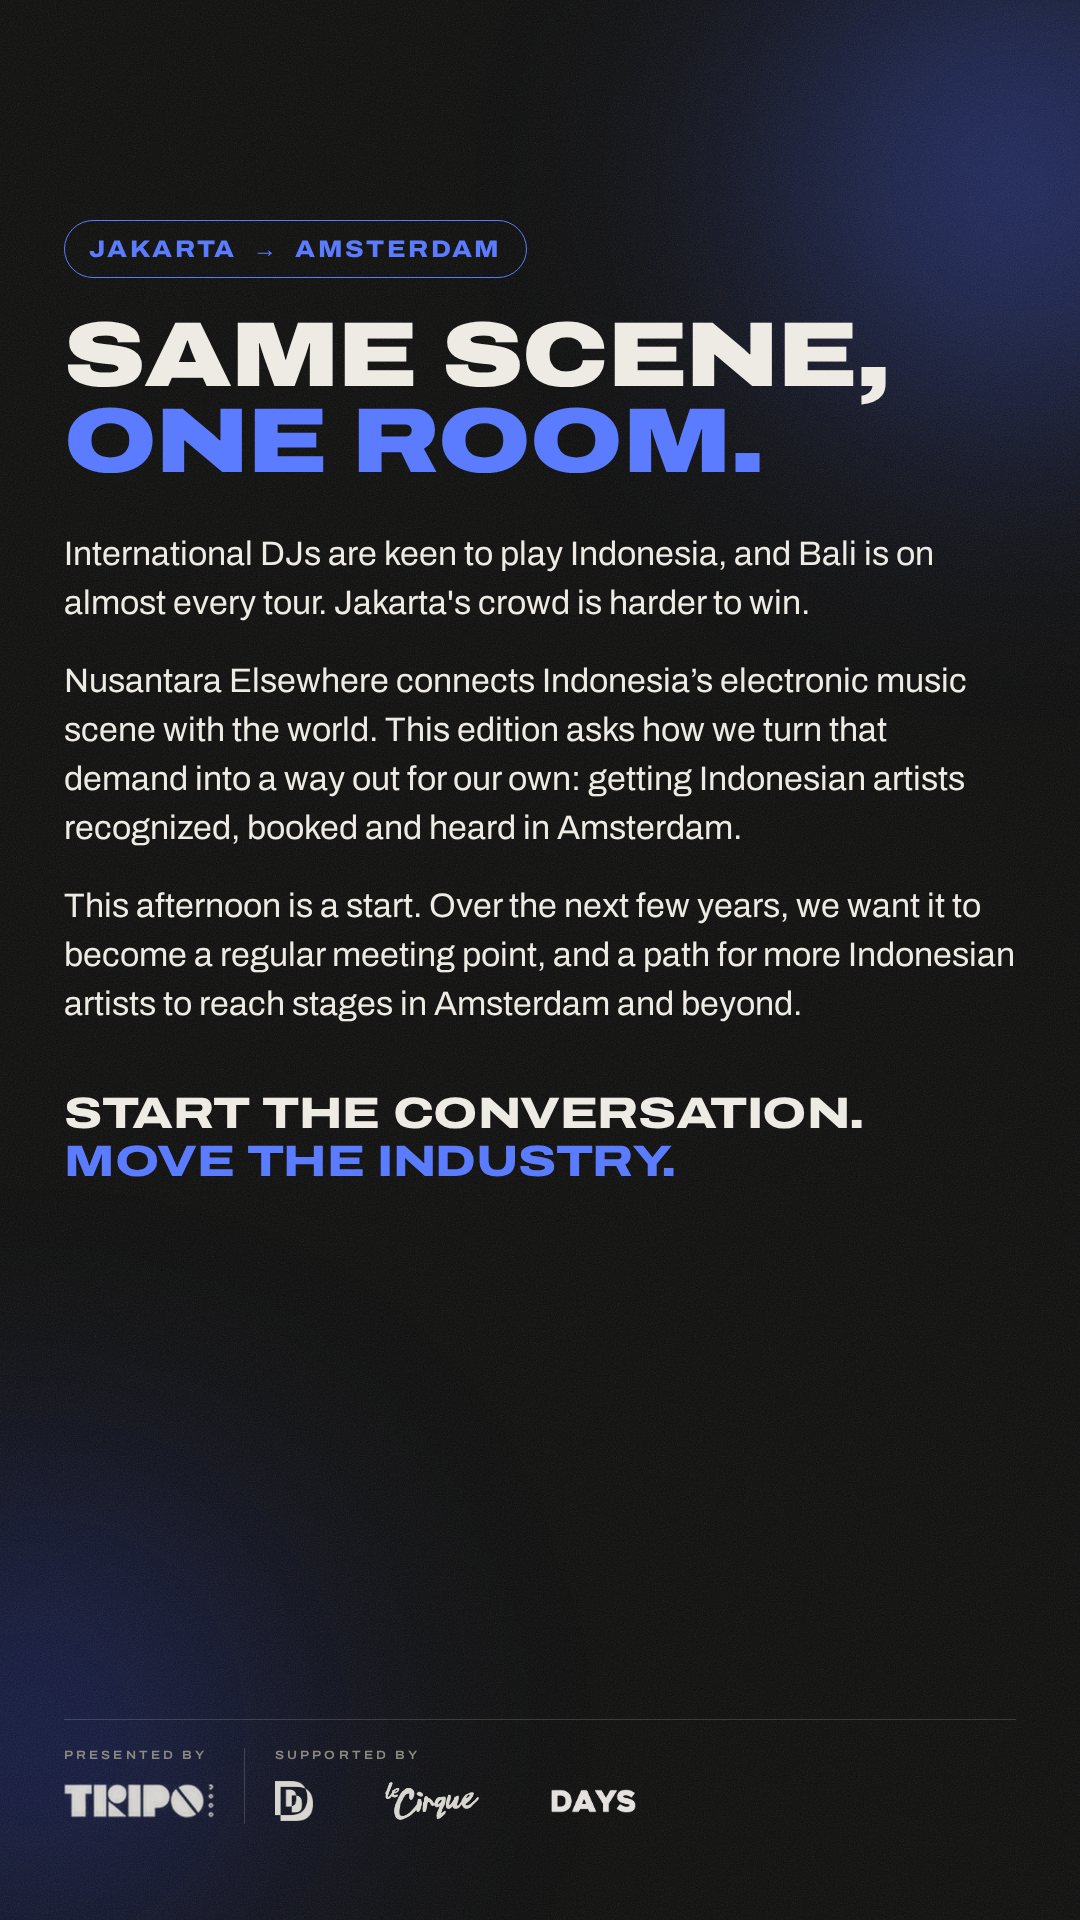
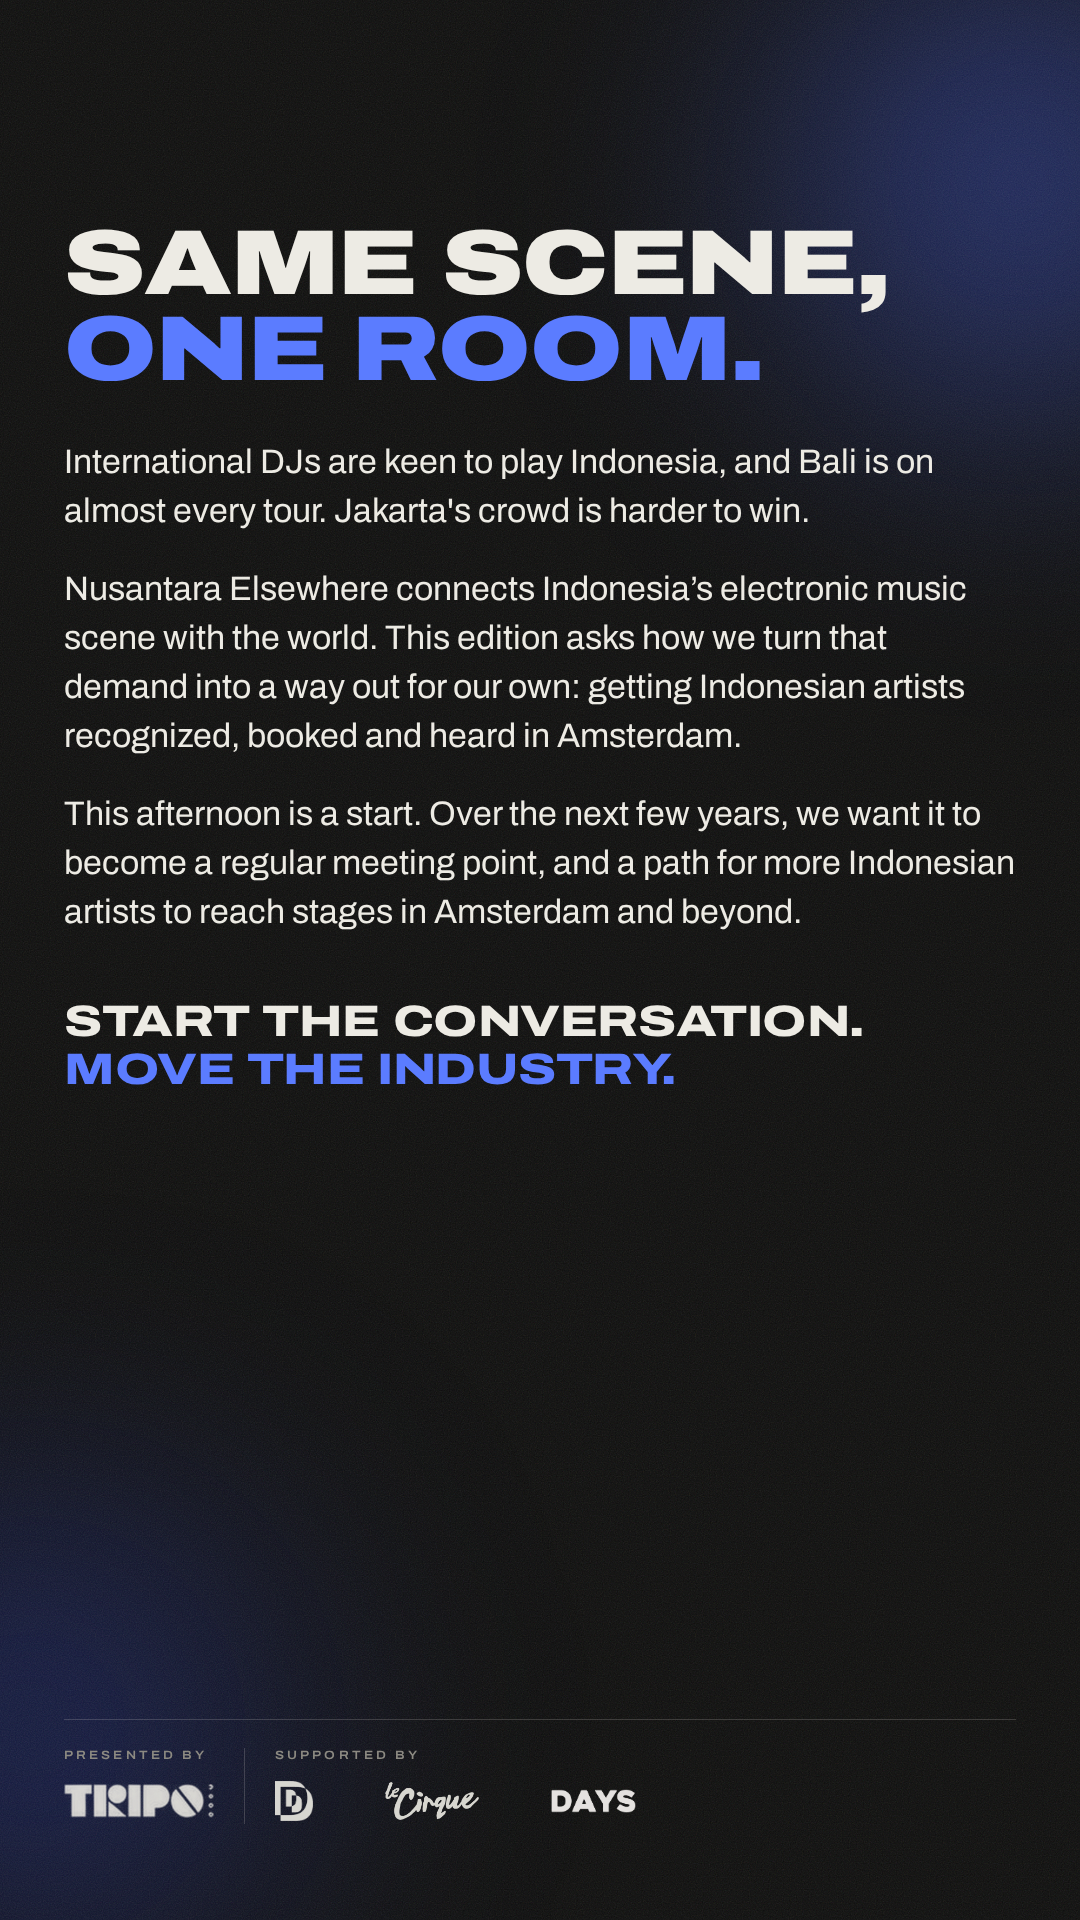
Why page: remove Jakarta → Amsterdam line
Claude-Session: https://claude.ai/code/session_01Sc5gF2HRFqjLpMQDrx7aqZ

Changed region(s): [[0.0611, 0.0938, 0.9472, 0.625]]

diff --git a/events/ade-community-talks-2026/rebrand/03-scene-amsterdam-nusantara.html b/events/ade-community-talks-2026/rebrand/03-scene-amsterdam-nusantara.html
@@ -13,8 +13,7 @@
 <div class="glow g1"></div><div class="glow g2"></div><div class="grain"></div>
 <div class="page">
 
-  <div class="bridge" style="margin-top:0">Jakarta <i>→</i> Amsterdam</div>
-  <div class="display" style="font-size:92px;line-height:.94;margin-top:34px;white-space:nowrap">Same scene,<br><em>one room.</em></div>
+  <div class="display" style="font-size:92px;line-height:.94;margin-top:0;white-space:nowrap">Same scene,<br><em>one room.</em></div>
 
   <div class="body" style="margin-top:44px">International DJs are keen to play Indonesia, and Bali is on almost every tour. Jakarta's crowd is harder to win.</div>
   <div class="body" style="margin-top:28px">Nusantara Elsewhere connects Indonesia’s electronic music scene with the world. This edition asks how we turn that demand into a way out for our own: getting Indonesian artists recognized, booked and heard in Amsterdam.</div>
